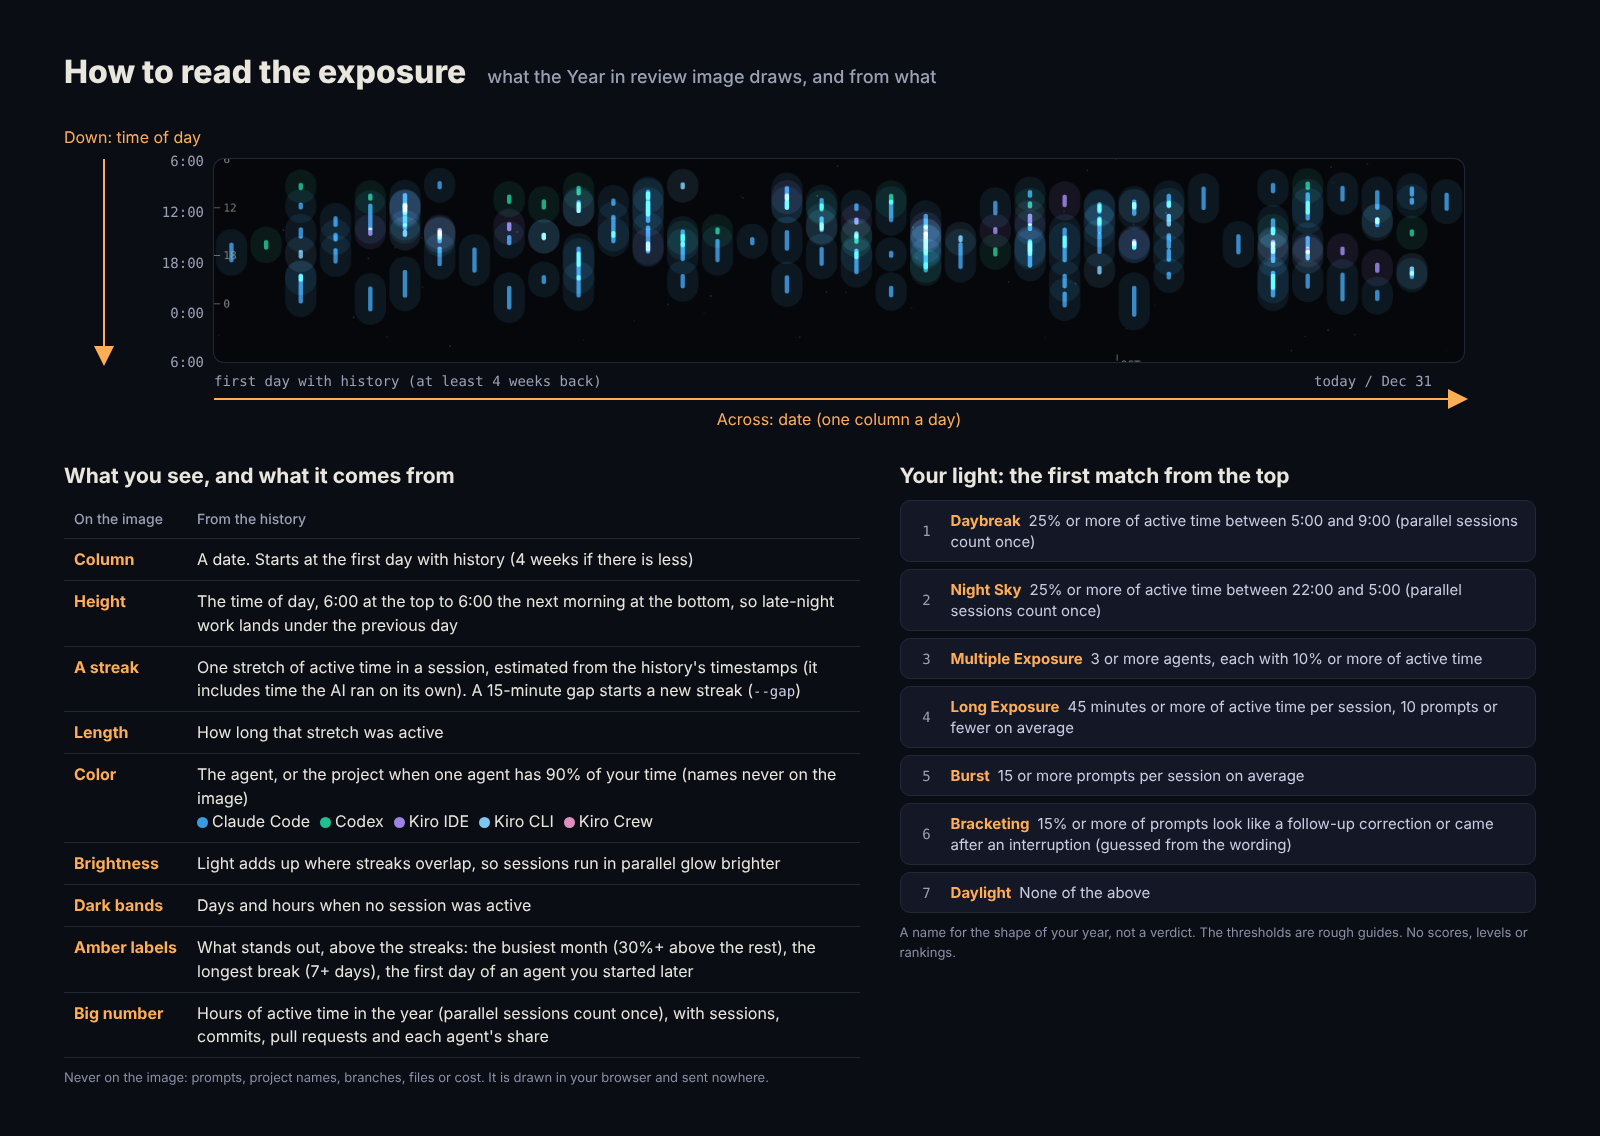
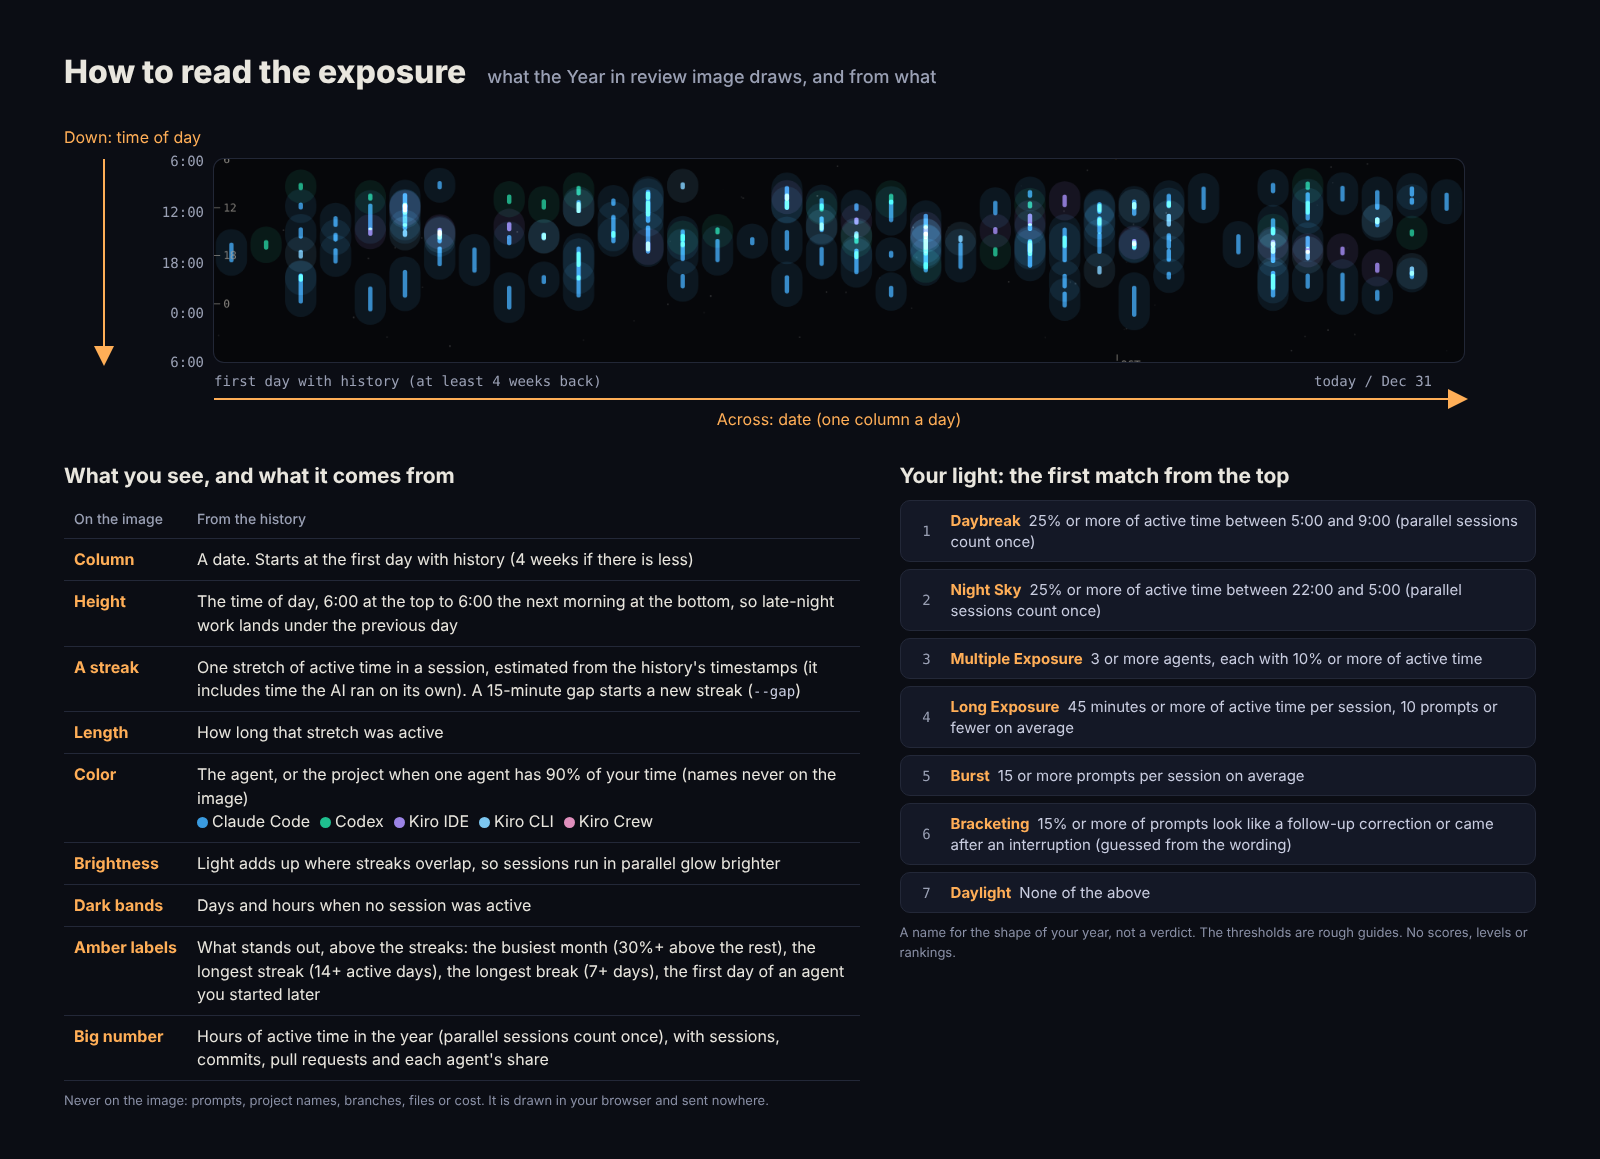
Year in review: streaks of active days, a question for every light
- What stands out marks the longest streak of active days (14 or more)
  on the streaks. A weekend off does not break it, so a steady weekday
  year gets a mark too; before, many short sessions every weekday left
  the plate without any.
- "To reflect on" always asks one question about your light (each light
  has its own), besides the questions about changes between the
  halves, so a year without big changes still gets a prompt to think.
- "parallel 4% → 42%" reads "time in parallel 4% → 42%".
- yearstory_test.js covers the streak: 14 vs 13 days, weekdays across
  weekends, and one weekday off breaking it.

diff --git a/internal/web/js/year.js b/internal/web/js/year.js
@@ -71,6 +71,14 @@ function highlights(x, ms, on, firstOf, day0){
       const a = new Date(ds[i-1] + "T00:00"), b = new Date(ds[i] + "T00:00"), n = Math.round((b - a)/864e5) - 1;
       if (n >= 7 && (!best || n > best.n)) best = {n, a: addDays(a, 1), b: addDays(b, -1)};
     }
+    // いちばん長い連続（動いた日が 14 日以上）。土日の空きは途切れにしない（平日だけ働く人も続いていれば数える）
+    const weekendOnly = (p, q) => { for (let d = addDays(p, 1); d < q; d = addDays(d, 1)) if (d.getDay() !== 0 && d.getDay() !== 6) return false; return true; };
+    let run = null, from = 0;
+    for (let i = 1; i <= ds.length; i++){
+      const cont = i < ds.length && weekendOnly(new Date(ds[i-1] + "T00:00"), new Date(ds[i] + "T00:00"));
+      if (!cont){ const n = i - from; if (n >= 14 && (!run || n > run.n)) run = {n, a: new Date(ds[from] + "T00:00"), b: new Date(ds[i-1] + "T00:00")}; from = i; }
+    }
+    if (run) H.push({c0: col(run.a), c1: col(run.b), t: `Longest streak: ${run.n} active days`});
     if (best) H.push({c0: col(best.a), c1: col(best.b), t: `Longest break: ${best.a.getMonth() === best.b.getMonth() ? `${dMD(best.a)}–${best.b.getDate()}` : `${dMD(best.a)}–${dMD(best.b)}`} · ${plural(best.n, "day")}`});
   }
   const t0 = Math.min(...Object.values(firstOf)); // 途中から使い始めたエージェント（最初の記録から 2 週間より後）
@@ -97,8 +105,8 @@ function halves(ss){
   if (r >= 1.25) out.push({t: `sessions ${Math.round((r - 1)*100)}% longer`, q: "Sessions got longer. Bigger tasks handed over, or more back-and-forth?"});
   else if (r <= .8) out.push({t: `sessions ${Math.round((1 - r)*100)}% shorter`, q: "Sessions got shorter. Smaller, clearer asks, or more interruptions?"});
   if (Math.abs(b.par - a.par) >= 5) out.push(b.par > a.par
-    ? {t: `parallel ${Math.round(a.par)}% → ${Math.round(b.par)}%`, q: "More running in parallel. Did it save you time, or add rework?"}
-    : {t: `parallel ${Math.round(a.par)}% → ${Math.round(b.par)}%`, q: "Less running in parallel. Was that on purpose?"});
+    ? {t: `time in parallel ${Math.round(a.par)}% → ${Math.round(b.par)}%`, q: "More running in parallel. Did it save you time, or add rework?"}
+    : {t: `time in parallel ${Math.round(a.par)}% → ${Math.round(b.par)}%`, q: "Less running in parallel. Was that on purpose?"});
   if (Math.abs(b.late - a.late) >= 5) out.push(b.late > a.late
     ? {t: `late nights ${Math.round(a.late)}% → ${Math.round(b.late)}%`, q: "More late nights than before. By choice?"}
     : {t: `late nights ${Math.round(a.late)}% → ${Math.round(b.late)}%`});
@@ -122,24 +130,31 @@ function yrColorOf(x, mode){
 const LIGHTS = [
   {k: "dawn", en: "Daybreak", m: "morning", t: x => x.morningPct >= 25,
    de: "You get things done while the morning is fresh.",
+   ask: "Most of your AI time was early. Is that when your prompts come out clearest?",
    re: "25% or more of active time is between 5:00 and 9:00"},
   {k: "night", en: "Night Sky", m: "late", t: x => x.late >= 25,
    de: "You do your best work after dark.",
+   ask: "Most of your AI time was after dark. Is that when you focus best, or when you catch up?",
    re: "25% or more of active time is between 22:00 and 5:00 (parallel sessions count once)"},
   {k: "multi", en: "Multiple Exposure", m: "agents", t: x => x.agents.filter(g => g.pct >= 10).length >= 3,
    de: "You pick a partner for each job and layer them.",
+   ask: "You used several agents. Which job did each one do best, and would one have been enough?",
    re: "3 or more agents, each with 10% or more of active time"},
   {k: "long", en: "Long Exposure", m: "avg", t: x => x.avgMin >= 45 && x.perSes <= 10,
    de: "You hand over big tasks and let them run.",
+   ask: "You handed over big tasks. How often did the first result need a second round?",
    re: "45 minutes or more of active time per session, with 10 prompts or fewer on average"},
   {k: "burst", en: "Burst", m: "per", t: x => x.perSes >= 15,
    de: "You ask small and often, and move fast.",
+   ask: "You asked small and often. Would some of those prompts have worked better as one clear request?",
    re: "15 or more prompts per session on average"},
   {k: "focus", en: "Bracketing", m: "fix", t: x => x.fix != null && x.fix >= 15,
    de: "You try a few takes and keep the best one.",
+   ask: "You often tried a few takes. What was missing from the first prompt?",
    re: "15% or more of prompts look like a follow-up correction or came after an interruption (guessed from the wording)"},
   {k: "day", en: "Daylight", m: "peak", t: () => true,
    de: "You work with AI steadily through the day.",
+   ask: "Your year was steady. What would you hand to AI next year that you did by hand this year?",
    re: "None of the above"}];
 function lightMetric(k, x){
   return ({ morning: ["Work between 5:00 and 9:00", `${Math.round(x.morningPct)}%`],
@@ -281,9 +296,9 @@ function renderYear(){
     <div><b>Dark bands = time off</b>Holidays and days off show up dark.</div></div>
   ${x.hi.length || x.halves.length ? `<h3>What stands out</h3>
   <ul class="yrhi">${x.hi.map(h => `<li>${esc(h.t)}</li>`).join("")}${x.halves.length ? `<li>Second half vs first: ${esc(x.halves.map(h => h.t).join(" · "))}</li>` : ""}</ul>` : ""}
-  ${qs.length ? `<h3>To reflect on</h3>
-  <ul class="yrhi">${qs.map(h => `<li>${esc(h.q)}</li>`).join("")}</ul>
-  <p class="note">Questions, not judgments. Only you see them; they are not on the image. To dig into a month, copy its report prompt from the month view.</p>` : ""}
+  <h3>To reflect on</h3>
+  <ul class="yrhi">${[...qs.map(h => h.q), L.ask].map(q => `<li>${esc(q)}</li>`).join("")}</ul>
+  <p class="note">Questions, not judgments. Only you see them; they are not on the image. To dig into a month, copy its report prompt from the month view.</p>
 
   <h3>An image to share</h3>
   <canvas class="yrcard" id="yrcard" width="1600" height="900" role="img" aria-label="${esc(`Image to share: ${dur(x.active)} with AI in ${x.y}${L ? `. Your light: ${L.en}` : ""}${x.hi.length ? `. What stands out: ${x.hi.map(h => h.t).join("; ")}` : ""}${x.halves.length ? `. Second half vs first: ${x.halves.map(h => h.t).join(", ")}` : ""}`)}"></canvas>

diff --git a/tools/screenshots/year-params.html b/tools/screenshots/year-params.html
@@ -56,7 +56,7 @@ code{font:500 14px ui-monospace,Menlo,Consolas,monospace;color:#c9cde0}
    <tr><td>Color</td><td>The agent, or the project when one agent has 90% of your time (names never on the image)<br><span class="dot" style="background:#3a9be0;margin-left:0"></span>Claude Code<span class="dot" style="background:#1fbf8f"></span>Codex<span class="dot" style="background:#9c84e6"></span>Kiro IDE<span class="dot" style="background:#7cc6f0"></span>Kiro CLI<span class="dot" style="background:#e08fbd"></span>Kiro Crew</td></tr>
    <tr><td>Brightness</td><td>Light adds up where streaks overlap, so sessions run in parallel glow brighter</td></tr>
    <tr><td>Dark bands</td><td>Days and hours when no session was active</td></tr>
-   <tr><td>Amber labels</td><td>What stands out, above the streaks: the busiest month (30%+ above the rest), the longest break (7+ days), the first day of an agent you started later</td></tr>
+   <tr><td>Amber labels</td><td>What stands out, above the streaks: the busiest month (30%+ above the rest), the longest streak (14+ active days), the longest break (7+ days), the first day of an agent you started later</td></tr>
    <tr><td>Big number</td><td>Hours of active time in the year (parallel sessions count once), with sessions, commits, pull requests and each agent's share</td></tr>
   </table>
   <p class="note">Never on the image: prompts, project names, branches, files or cost. It is drawn in your browser and sent nowhere.</p>

diff --git a/docs/guide.md b/docs/guide.md
@@ -106,8 +106,8 @@ The old forms `kiroku --serve`, `--json`, `-o` and `--weekly` / `--monthly` have
 - Weekly and monthly reports: "Copy weekly report prompt" ("Copy monthly report prompt" in month view) in the summary heading copies a prompt for an AI agent on this computer, such as Claude Code or Codex, to write the report. See [Reviews and reports with your agent](#reviews-and-reports-with-your-agent) for what these prompts contain
 - Year in review: "Year" after Week and Month (`Y`) opens the year's "exposure". Across is the date and down is the time of day (6:00 to 6:00 the next morning, so late-night work lands at the bottom of the previous day's column); each stretch of active time in a session is drawn as a streak of light, colored by agent and brighter where sessions overlapped. Choose the year at the top right
   - Color: by agent, or by project when one agent has 90% or more of your active time (with a single agent the colors would all be the same). "Color by" switches between Auto, Agent and Project. The image to share shows project colors only, never project names
-  - What stands out: facts found in the year, written above the streaks of the image, with a bracket or mark on the dates: the busiest month (when it has 30% more active time than the average of the other months), the longest break (7 days or more), the first day of an agent you started later (two weeks or more after your first record), and late nights (22:00–5:00) and weekends when they are 10% or more of active time
-  - Second half vs first: the period with history is split in half by date (28 days or more, 5 or more sessions on each side), and only what moved a lot is shown: session length (±20%), the share of time in parallel and late nights (5 points), and prompts per session (±20%). On the page, each change comes with a question to reflect on (for example "More running in parallel. Did it save you time, or add rework?"); the questions never go on the image
+  - What stands out: facts found in the year, written above the streaks of the image, with a bracket or mark on the dates: the busiest month (when it has 30% more active time than the average of the other months), the longest streak of active days (14 or more; a weekend off does not break it), the longest break (7 days or more), the first day of an agent you started later (two weeks or more after your first record), and late nights (22:00–5:00) and weekends when they are 10% or more of active time
+  - Second half vs first: the period with history is split in half by date (28 days or more, 5 or more sessions on each side), and only what moved a lot is shown: session length (±20%), the share of time in parallel and late nights (5 points), and prompts per session (±20%). On the page, "To reflect on" asks a question about each change and one about your light (for example "You handed over big tasks. How often did the first result need a second round?") ; the questions never go on the image
   - An image to share: active time, sessions, commits, pull requests, the color key, what stands out and the streaks of light, with month and hour ticks, as a 1600×900 image. Get it with "Save as PNG" or "Copy image", and choose what to include (commits and PRs, your light, the color key). The image is made in the page and sent nowhere; prompts, project names, branches, files and estimated cost are never included. The streaks start from the first day with history (at least 4 weeks), and a line on the image says how to read them
 
     ![Year in review share image (dummy data)](year.png)

diff --git a/CHANGELOG.md b/CHANGELOG.md
@@ -6,7 +6,7 @@ Notable changes to kiroku, in the style of [Keep a Changelog](https://keepachang
 
 ### Added
 
-- Year in review is back ("Year" after Week and Month, or `Y`): a year of active time drawn as streaks of light, your light (the shape of your year in photography terms) and a 1600×900 image to share with totals only, which now says how to read the streaks and fills its width from 4 weeks of history (was 8). The light that was "Refocus" is now "Bracketing" (a few takes, keeping the best), and Daybreak now counts time when any session was active once instead of adding up sessions run in parallel. It now says what stands out (busiest month, longest break, an agent you started later, late nights and weekends) on the image, compares the second half of the period with the first, and on the page asks a question about each change. The streaks are colored by project when one agent has 90% or more of your time, and "Color by" picks Agent or Project; project names never go on the image. A seventh light, Night Sky, is for years with 25% or more of active time between 22:00 and 5:00. The image has month and hour ticks, and its text stays above the streaks so early mornings are not covered. The busiest month is named only when it stands out (30% above the rest), and the longest break only when it is 7 days or more. It no longer has skill levels (Novice to Legendary), the four skill meters, or the under- and overexposed labels: it describes how you worked and doesn't score or rank you
+- Year in review is back ("Year" after Week and Month, or `Y`): a year of active time drawn as streaks of light, your light (the shape of your year in photography terms) and a 1600×900 image to share with totals only, which now says how to read the streaks and fills its width from 4 weeks of history (was 8). The light that was "Refocus" is now "Bracketing" (a few takes, keeping the best), and Daybreak now counts time when any session was active once instead of adding up sessions run in parallel. It now says what stands out (busiest month, longest break, an agent you started later, late nights and weekends) on the image, compares the second half of the period with the first, and on the page asks a question about each change. The streaks are colored by project when one agent has 90% or more of your time, and "Color by" picks Agent or Project; project names never go on the image. A seventh light, Night Sky, is for years with 25% or more of active time between 22:00 and 5:00. The image has month and hour ticks, and its text stays above the streaks so early mornings are not covered. The busiest month is named only when it stands out (30% above the rest), and the longest break only when it is 7 days or more; a streak of 14 or more active days is marked too (a weekend off does not break it). "To reflect on" always asks one question about your light, besides one for each change between the halves. It no longer has skill levels (Novice to Legendary), the four skill meters, or the under- and overexposed labels: it describes how you worked and doesn't score or rank you
 
 ## v0.30.0 - 2026-10-10
 
